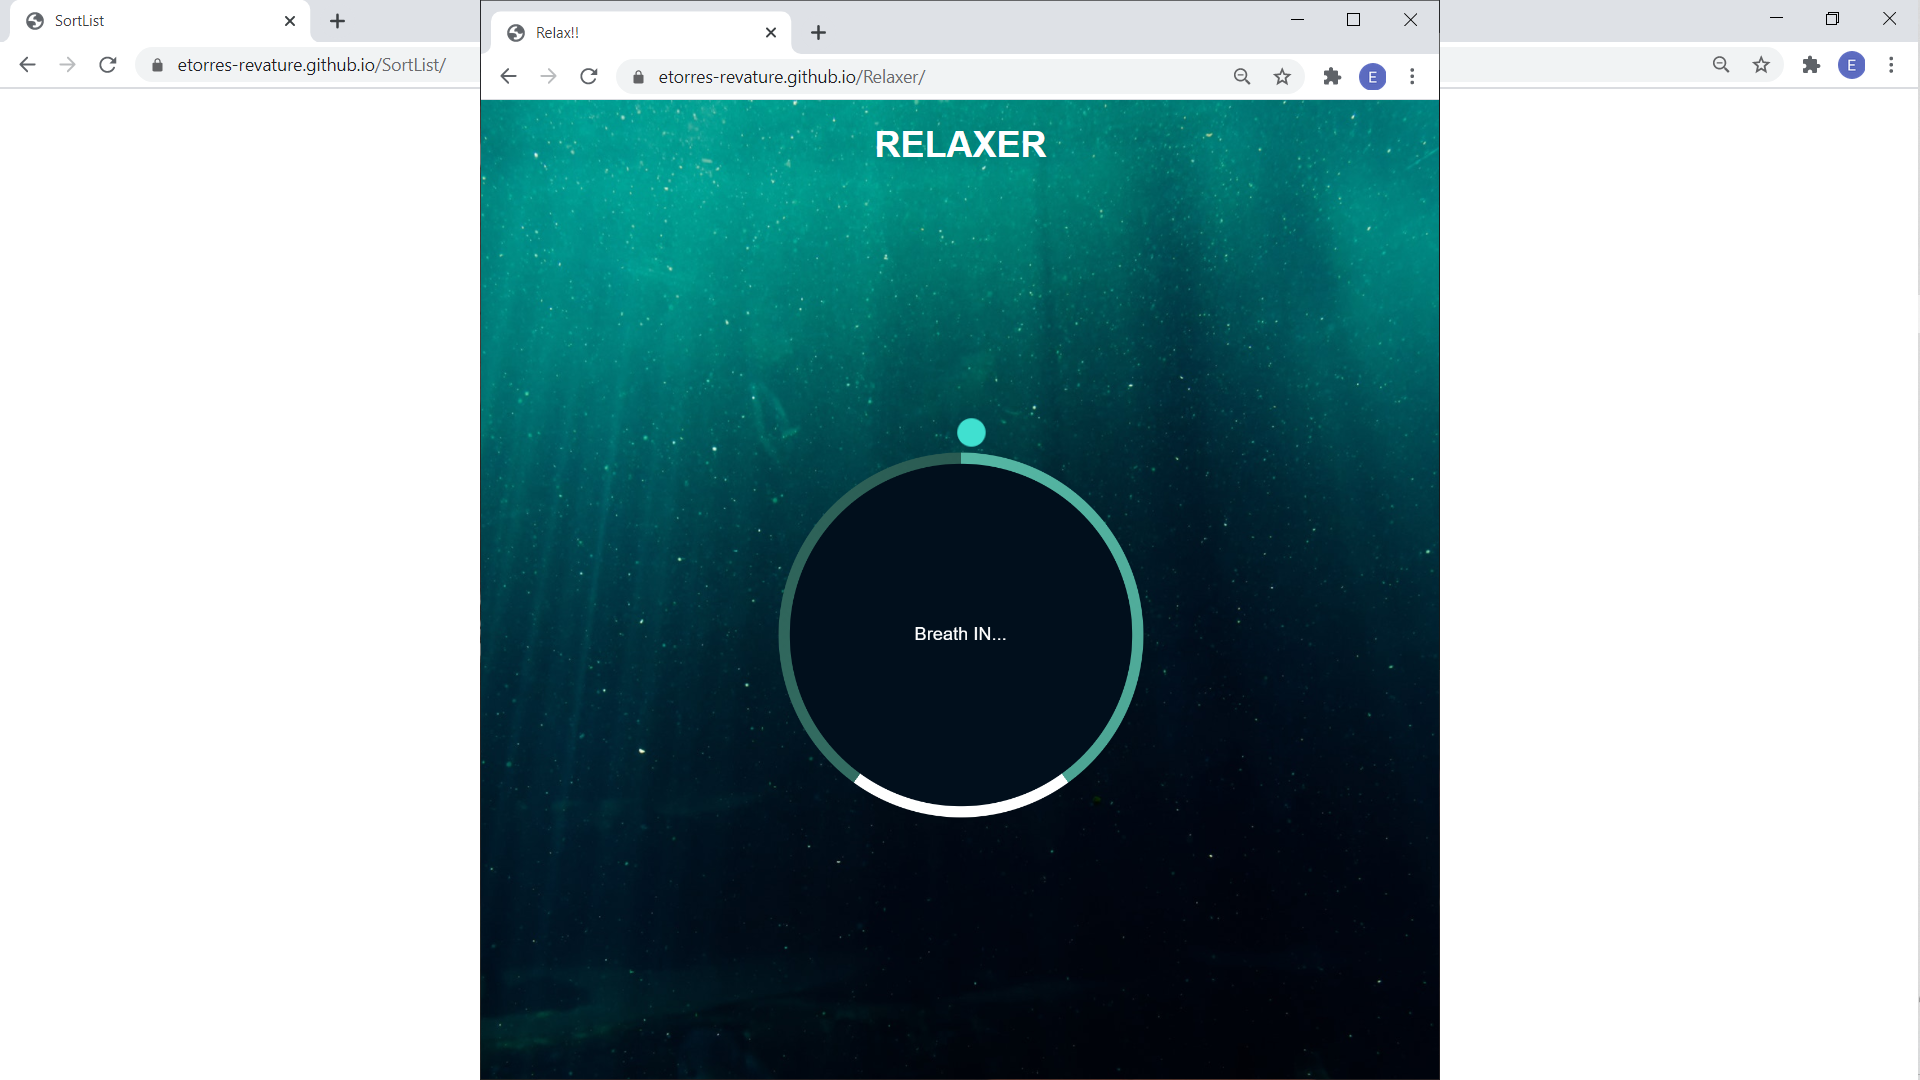
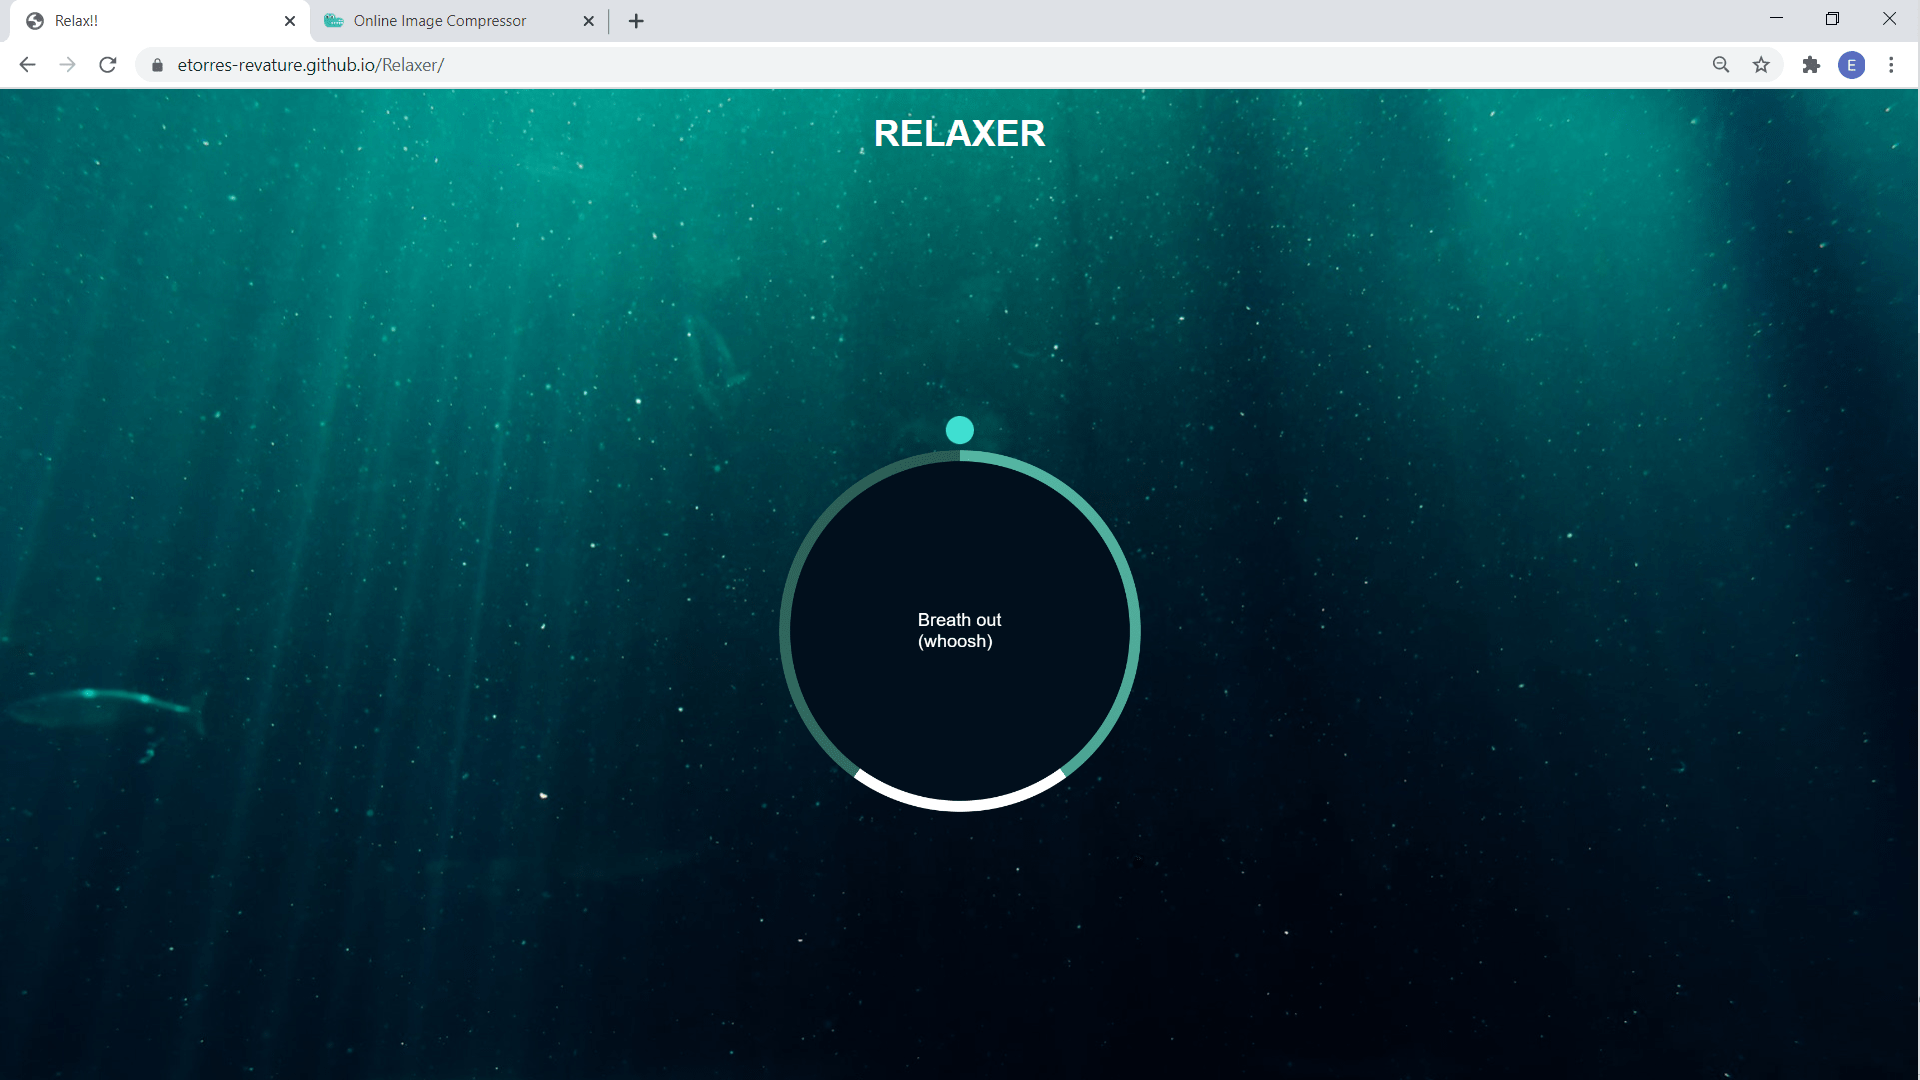
compressed photos

diff --git a/style.css b/style.css
@@ -5,7 +5,7 @@
 }
 
 body {
-  background: #224941 url("./assets/img/bg.jpg") no-repeat center center/cover;
+  background: #224941 url("./assets/img/background/bg-min.jpg") no-repeat center center/cover;
   color: #fff;
   font-family: "montserrat", sans-serif;
   min-height: 100vh;
